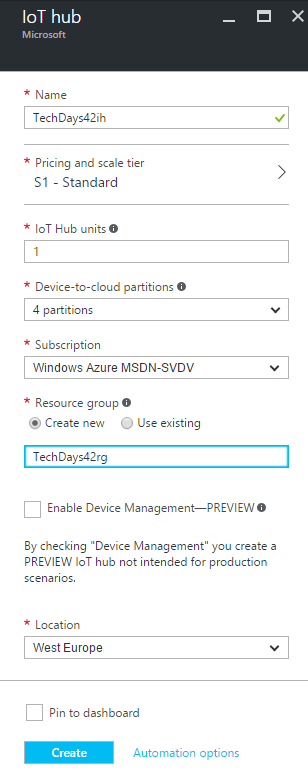
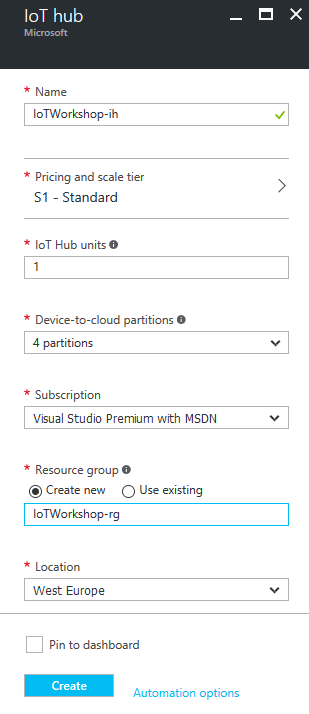
Fix: Creating an Azure IoT Hub in the Azure portal

diff --git a/UwpToIotHub.md b/UwpToIotHub.md
@@ -47,15 +47,15 @@ Follow these steps to create an Azure IoT Hub.
 
     ![alt tag](img/UwpToIotHub/azure-portal-add.png)
 
-5. Enter a unique IoT Hub name eg. `IoTWorkshopih`. A green sign will be shown if the name is unique
-6. Enter a unique Resource Group eg. `IoTWorkshoprg`. A green sign will be shown if the name is unique
-7. Select `West Europe` for the location
+5. Enter a unique IoT Hub name eg. `IoTWorkshop-ih`. A green sign will be shown if the name is unique
+6. Enter a unique Resource Group eg. `IoTWorkshop-rg`. A green sign will be shown if the name is unique
+7. Select `West Europe` for the location, if needed
 
     ![alt tag](img/UwpToIotHub/azure-new-iot-hub-scaled.png)
 
 8. Press `Create` and the portal will start creating the service. Once it is created, a notification is shown. In the right upper corner, a bell represents the list of all notifications shown
 
-    ![alt tag](img/UwpToIotHub/azure-notifications.png)
+    ![alt tag](img/UwpToIotHub/azure-notifications-iothub.png)
 
 Creating an IoT Hub takes some time. Meanwhile, we will start with the app which will connect to the IoT Hub later on.
 
